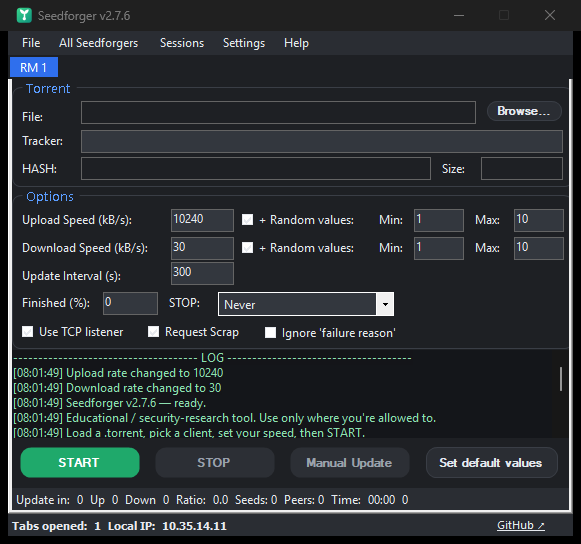
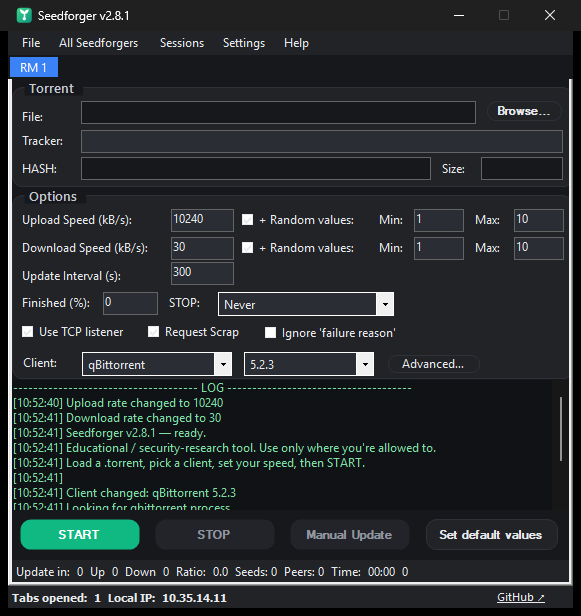
Restyle pass: fix the clipped Advanced dialog; modernise the palette
- Advanced dialog no longer clips on the right: AutoScaleMode=None so the
  borrowed group boxes aren't re-scaled against the host's DPI.
- Modernise the theme: softer, deeper palette (light and dark), a
  contemporary accent/green, muted slate card titles instead of loud
  blue, and filled card surfaces that lift off the background. Bump to
  2.9.0.

diff --git a/Seedforger/Theme.cs b/Seedforger/Theme.cs
@@ -21,38 +21,38 @@ namespace Seedforger {
     }
 
     private static readonly Palette Light = new Palette {
-      Window = Color.FromArgb(0xF6, 0xF7, 0xF9),
+      Window = Color.FromArgb(0xF4, 0xF5, 0xF7),
       Card = Color.White,
-      Border = Color.FromArgb(0xDD, 0xE1, 0xE6),
-      Text = Color.FromArgb(0x1F, 0x23, 0x28),
-      Subtle = Color.FromArgb(0x5B, 0x63, 0x6E),
-      Header = Color.FromArgb(0x2F, 0x6F, 0xED),
+      Border = Color.FromArgb(0xE5, 0xE8, 0xEC),
+      Text = Color.FromArgb(0x18, 0x1B, 0x20),
+      Subtle = Color.FromArgb(0x6B, 0x72, 0x80),
+      Header = Color.FromArgb(0x37, 0x41, 0x51),
       Input = Color.White,
-      InputText = Color.FromArgb(0x1F, 0x23, 0x28),
+      InputText = Color.FromArgb(0x18, 0x1B, 0x20),
     };
 
     private static readonly Palette Dark = new Palette {
-      Window = Color.FromArgb(0x1E, 0x20, 0x24),
-      Card = Color.FromArgb(0x2A, 0x2D, 0x33),
-      Border = Color.FromArgb(0x3A, 0x3E, 0x46),
-      Text = Color.FromArgb(0xE6, 0xE9, 0xEE),
-      Subtle = Color.FromArgb(0x9A, 0xA1, 0xAB),
-      Header = Color.FromArgb(0x5A, 0x9C, 0xFF),
-      Input = Color.FromArgb(0x33, 0x37, 0x3E),
-      InputText = Color.FromArgb(0xE6, 0xE9, 0xEE),
+      Window = Color.FromArgb(0x17, 0x18, 0x1B),
+      Card = Color.FromArgb(0x21, 0x23, 0x27),
+      Border = Color.FromArgb(0x2E, 0x31, 0x37),
+      Text = Color.FromArgb(0xE8, 0xEA, 0xED),
+      Subtle = Color.FromArgb(0x90, 0x96, 0xA0),
+      Header = Color.FromArgb(0xC6, 0xCA, 0xD2),
+      Input = Color.FromArgb(0x2A, 0x2D, 0x33),
+      InputText = Color.FromArgb(0xE8, 0xEA, 0xED),
     };
 
     // Semantic colours are shared by both themes.
-    private static readonly Color Accent = Color.FromArgb(0x2F, 0x6F, 0xED);
-    private static readonly Color Green = Color.FromArgb(0x1F, 0xA9, 0x6B);
-    private static readonly Color Red = Color.FromArgb(0xE0, 0x3E, 0x3E);
-    private static readonly Color LogBack = Color.FromArgb(0x14, 0x16, 0x1A);
-    private static readonly Color LogText = Color.FromArgb(0x8C, 0xE0, 0xB0);
+    private static readonly Color Accent = Color.FromArgb(0x3B, 0x82, 0xF6);
+    private static readonly Color Green = Color.FromArgb(0x10, 0xB9, 0x81);
+    private static readonly Color Red = Color.FromArgb(0xEF, 0x44, 0x44);
+    private static readonly Color LogBack = Color.FromArgb(0x10, 0x12, 0x15);
+    private static readonly Color LogText = Color.FromArgb(0x7E, 0xE0, 0xA6);
 
     internal static readonly Font UiFont =
       new Font("Segoe UI", 9f, FontStyle.Regular, GraphicsUnit.Point);
     private static readonly Font HeaderFont =
-      new Font("Segoe UI Semibold", 9.5f, FontStyle.Bold, GraphicsUnit.Point);
+      new Font("Segoe UI Semibold", 10f, FontStyle.Bold, GraphicsUnit.Point);
 
     internal static Palette Cur => AppOptions.DarkMode ? Dark : Light;
 
@@ -138,7 +138,7 @@ namespace Seedforger {
           c.ForeColor = p.Text;
           break;
         case GroupBox gb:
-          gb.BackColor = p.Window;
+          gb.BackColor = p.Card; // transparent child labels read the parent BackColor
           gb.ForeColor = p.Header;
           if (!(gb.Tag is string gs && gs == "flat")) {
             gb.Tag = "flat";
@@ -283,20 +283,22 @@ namespace Seedforger {
       var gb = (GroupBox) sender;
       var g = e.Graphics;
       g.SmoothingMode = SmoothingMode.AntiAlias;
-      g.Clear(gb.BackColor);
+      var parentBg = gb.Parent?.BackColor ?? Cur.Window;
+      g.Clear(parentBg); // rounded corners fall back to the window colour
 
       var headerH = gb.Font.Height;
       var rect = new Rectangle(0, headerH / 2, gb.Width - 1, gb.Height - headerH / 2 - 1);
-      using (var path = RoundedRect(rect, 8))
-      using (var pen = new Pen(Cur.Border, 1f))
-        g.DrawPath(pen, path);
+      using (var path = RoundedRect(rect, 10)) {
+        using (var fill = new SolidBrush(Cur.Card)) g.FillPath(fill, path); // filled card surface
+        using (var pen = new Pen(Cur.Border, 1f)) g.DrawPath(pen, path);
+      }
 
       if (!string.IsNullOrEmpty(gb.Text)) {
         var size = g.MeasureString(gb.Text, HeaderFont);
-        using (var bg = new SolidBrush(gb.BackColor))
-          g.FillRectangle(bg, 10, 0, size.Width + 6, headerH);
+        using (var bg = new SolidBrush(parentBg)) // break the outline for the title
+          g.FillRectangle(bg, 12, 0, size.Width + 8, headerH);
         using (var brush = new SolidBrush(Cur.Header))
-          g.DrawString(gb.Text, HeaderFont, brush, 12, 0);
+          g.DrawString(gb.Text, HeaderFont, brush, 15, 0);
       }
     }
 

diff --git a/Seedforger/AdvancedForm.cs b/Seedforger/AdvancedForm.cs
@@ -19,6 +19,9 @@ namespace Seedforger {
       FormBorderStyle = FormBorderStyle.FixedDialog;
       MaximizeBox = false; MinimizeBox = false;
       StartPosition = FormStartPosition.CenterParent;
+      // The borrowed group boxes are already sized in the host's DPI pixels; don't
+      // let this form re-scale them, or the content gets clipped on hi-DPI screens.
+      AutoScaleMode = AutoScaleMode.None;
       try { Icon = Icon.ExtractAssociatedIcon(Environment.ProcessPath); } catch { }
 
       var host = new Panel { Dock = DockStyle.Fill };
@@ -44,9 +47,7 @@ namespace Seedforger {
       Controls.Add(bar);
       AcceptButton = close; CancelButton = close;
 
-      var size = new Size(maxRight + 24, top + bar.Height + 4);
-      MinimumSize = new Size(size.Width + 16, size.Height + 39); // outer size floor (border + caption)
-      ClientSize = size;
+      ClientSize = new Size(maxRight + 24, top + bar.Height + 4);
 
       FormClosed += (s, e) => {
         foreach (var b in borrowed) { b.ctl.Parent = b.parent; b.ctl.Location = b.loc; b.ctl.Anchor = b.anchor; }